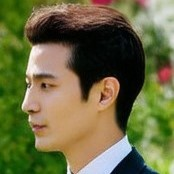
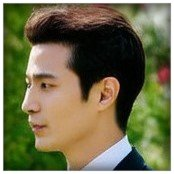
added effects on suspect guess scene images

Changed region(s): [[0.0, 0.0, 1.0, 1.0]]

diff --git a/src/main/resources/css/general.css b/src/main/resources/css/general.css
@@ -92,3 +92,12 @@
   -fx-border-color: #444444;
   /* Lighter border when pressed */
 }
+
+
+/* Glow effect on hover */
+.image-view:hover {
+  -fx-effect: dropshadow(gaussian, rgba(255, 255, 255, 1), 20, 0, 0, 0);
+  /* White glow effect */
+  -fx-cursor: hand;
+  /* Hand cursor on hover */
+}
